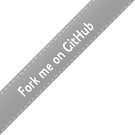
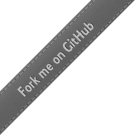
Changed delete uploads after 1 day and changed smaller design stuff

Changed region(s): [[0.0, 0.0, 1.0, 1.0]]

diff --git a/css/style.css b/css/style.css
@@ -231,6 +231,10 @@ body .infobox2 {
 	padding: 10px 50px 40px 30px;
 	text-align: left;
 }
+body .infobox2 .snippet-wrap ol li {
+	list-style: none;
+	padding-left: 10px;
+}
 
 /* upload */
 input, textarea, #urlMessage p {
@@ -664,20 +668,27 @@ footer {
 	background-position: 0 -189px;
 }
 #social .paypal {
-	text-align: center;
+	text-align: left;
+	position: relative;
 }
 	#social .paypal form {
-		padding-top: 2px;
+		padding: 2px 0 0 16px;
 	}
 	#social .paypal form input {
 		background: none;
+	}
+	#paypalAmount {
+		position: absolute;
+		right: 12px;
+		top: 6px;
+		font-weight: bold;
 	}
 #feedbackPopup {
 	position: absolute;
 	right: 12px;
 	top: 164px;
 	width: 230px;
-	height: 50px;
+	height: 30px;
 	padding: 3px 20px;
 	
 	background-color: #F9F9F9;
@@ -701,7 +712,7 @@ footer {
 		position: absolute;
 		width: 24px;
 		height: 14px;
-		right: 90px;
+		right: 50px;
 		top: -12px;
 	}
 	#feedbackPopup a {
@@ -709,6 +720,10 @@ footer {
 		right: 2px;
 		top: 6px;
 		display: none;
+	}
+	#feedbackPopup p {
+		font-weight: bold;
+		margin: 6px 0 0 0;
 	}
 
 /* * * * UPLOADIFY * * * */

diff --git a/js/script2.js b/js/script2.js
@@ -246,7 +246,7 @@ $(document).ready(function(){
     });
 	
 	// close donate popup
-	$('#feedbackPopup a').click('a', function(e) {
+	$('#feedbackPopup').hover(function(e) {
 		$('#feedbackPopup').slideUp(400);
 		e.preventDefault();
 	});

diff --git a/index.php b/index.php
@@ -11,6 +11,7 @@
  * Version	v2.0
  * About	http://dariodomi.de
  * Copyright (c) by Dario D. Müller
+ * GitHub -> https://github.com/DarioDomiDE/Imagemap-Generator
  */
 
 require_once('config.php');
@@ -62,8 +63,8 @@ if(!is_dir($uploadDir))
 	mkdir($uploadDir);
 }
 
-// delete old images from server
-$lifetimeInDays = 4;
+// delete old images from server -> 2 = 1 day
+$lifetimeInDays = 2;
 if ($handle = opendir($uploadDir))
 {
 	while (false !== ($file = readdir($handle)))
@@ -105,6 +106,7 @@ if(isset($_SESSION['image']) && $_SESSION['image'] != null && !empty($_SESSION['
 		<div id="header">
 			<p><a href="http://imagemap-generator.dariodomi.de/"><img src="images/logo.png" alt="Imagemap Generator - Set links to image - image mapping tool" title="" id="logo" /></a></p>
 			<p class="author">Easy Imagemap Generator by <a rel="author" href="https://plus.google.com/113304109683958874741/">Dario D. Müller</a></p>
+			<div class="fork"><a href="https://github.com/DarioDomiDE/Imagemap-Generator" target="_blank"></a></div>
 		</div>
 	</header>
 		<?php
@@ -299,9 +301,8 @@ if(isset($_SESSION['image']) && $_SESSION['image'] != null && !empty($_SESSION['
 					<li>Copy the Imagemap HTML code</li>
 				</ul>
 				<h3>About me</h3>
-				<p>Hi folks, My name is <a href="https://plus.google.com/113304109683958874741/" target="_blank">Dario D. Müller</a>, web developer and freelance programmer based in Hamburg, Germany. I personally use this software for developing Newsletter and Landingpages.</p>
-				<p>In some kinds of HTML, for example email templates, I don't have the opportunity to use special CSS hacks. It's better to use many images with a lot of links via image maps.</p>
-				<p>I'm really sorry for problems in previous versions, I apologize for that. If you have questions or find bugs, don't be shy to send me an email to <span class="email"></span>. I'm also happy for getting some feedback :)</p>
+				<p>Hi folks, My name is <a href="https://plus.google.com/113304109683958874741/" target="_blank">Dario</a>, I'm a web developer and freelance programmer in Hamburg, Germany. I build this tool for easily developing Newsletter and Landingpages.</p>
+				<p>In some kinds of HTML, for example email templates, you don't have the opportunity to use special CSS hacks. It's better to use many images with a lot of links via image maps.</p>
 			</div>
 		</article>
 	</div>
@@ -335,8 +336,7 @@ if(isset($_SESSION['image']) && $_SESSION['image'] != null && !empty($_SESSION['
 	
 	<div id="infotext">
 		<address class="author"><b>Easy Imagemap Generator</b><br />
-		<!--More Infos and Projects visit <a href="http://dariodomi.de" target="_blank">dariodomi.de</a><br />-->
-		Uploads are deleted after 3 days<br />
+		Uploads are deleted after 1 day<br />
 		This Software uses Google Analytics<br />
 		Feedback? <span class="email"></span><br />
 		Copyright &copy; <?php echo date('Y'); ?> by <a rel="author" href="https://plus.google.com/113304109683958874741/" title="Dario D. Müller">Dario D. Müller</a><br />
@@ -360,17 +360,18 @@ if(isset($_SESSION['image']) && $_SESSION['image'] != null && !empty($_SESSION['
 				<input type="image" src="https://www.paypalobjects.com/en_GB/i/btn/btn_donate_SM.gif" border="0" name="submit" alt="PayPal">
 				<img alt="" border="0" src="https://www.paypalobjects.com/de_DE/i/scr/pixel.gif" width="1" height="1">
 			</form>
+			<span id="paypalAmount">3 € ?</span>
 		</div>
 	</div>
 	
 	<div id="feedbackPopup" class="insetEffect hidden">
 		<span></span>
-		<a href="#"><i class="icon icon-clear-2"></i></a>
-		<p>Do you find this tool useful? Give feedback or buy me a beer <b>:-)</b></p>
+		<!--<a href="#"><i class="icon icon-clear-2"></i></a>-->
+		<p>Do you find this tool helpful? <!--Give feedback or buy me a beer <b>:-)</b>--></p>
 	</div>
 	
 	<footer>
-		<p>Project &copy; <?php echo date("Y"); ?> by <a href="http://dariodomi.de" target="_blank">Dario D. M&uuml;ller</a><span></span><a href="http://dariodomi.de/contact" target="_blank">Feedback &amp; Contact</a></p>
+		<p>Project &copy; <?php echo date("Y"); ?> by <a href="http://dariodomi.de" target="_blank">Dario D. M&uuml;ller</a><!--<span></span><a href="http://dariodomi.de/contact" target="_blank">Feedback &amp; Contact</a>--></p>
 	</footer>
 	
 	<!-- jQuery File Upload -->
